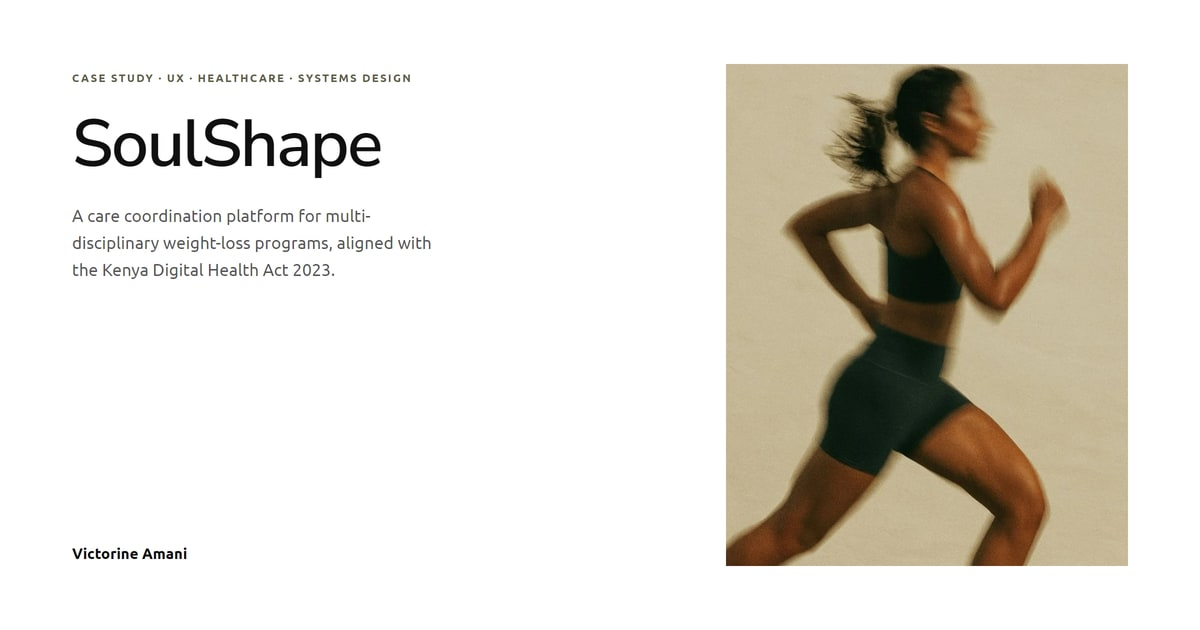
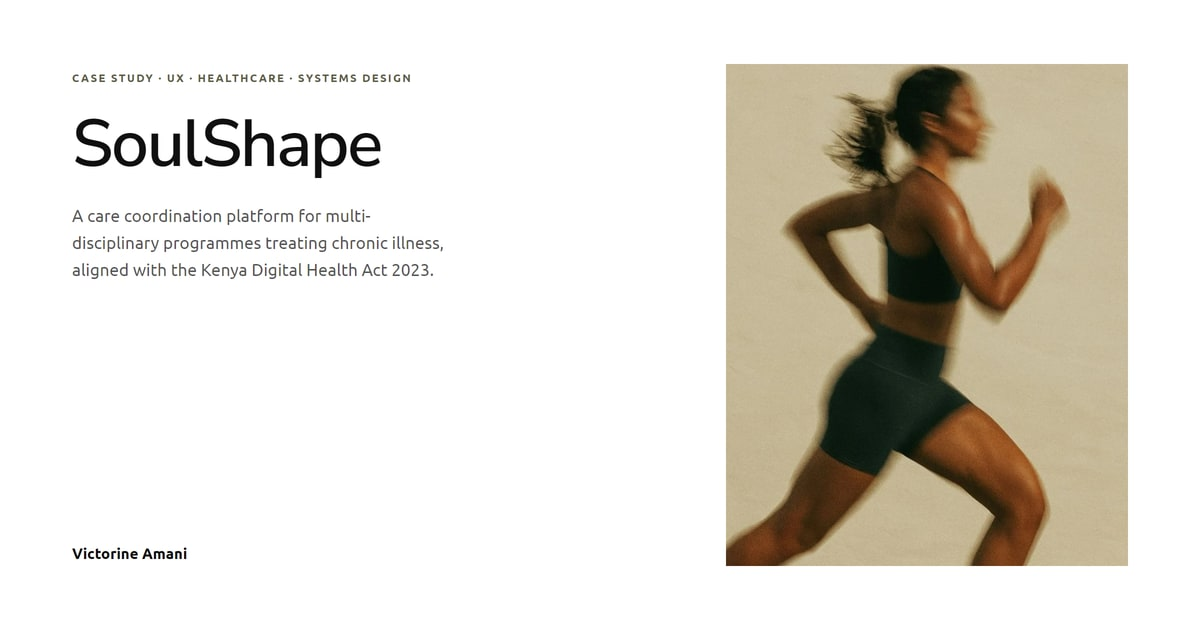
Programmes, in the deck and everywhere it is repeated
The deck, the meta description and the og:description are one sentence
printed three times, so the spelling moves in all three or the page
contradicts itself in the tab and in the share preview.

The share card was further behind than that: it still read "multi-
disciplinary weight-loss programs", the line from before chronic illness
replaced weight loss. Redrawn. The other six cards came out byte for byte
identical, so only SoulShape's is touched.

Changed region(s): [[0.0617, 0.3619, 0.37, 0.4524]]

diff --git a/src/routes/work.soulshape.tsx b/src/routes/work.soulshape.tsx
@@ -44,9 +44,9 @@ export const Route = createFileRoute("/work/soulshape")({
   head: ({ match }) => ({
     meta: [
       { title: "SoulShape · A HealthTech Case Study by Victorine Amani" },
-      { name: "description", content: "A care coordination platform for multi-disciplinary programs treating chronic illness, aligned with the Kenya Digital Health Act 2023." },
+      { name: "description", content: "A care coordination platform for multi-disciplinary programmes treating chronic illness, aligned with the Kenya Digital Health Act 2023." },
       { property: "og:title", content: "SoulShape · A HealthTech Case Study by Victorine Amani" },
-      { property: "og:description", content: "A care coordination platform for multi-disciplinary programs treating chronic illness." },
+      { property: "og:description", content: "A care coordination platform for multi-disciplinary programmes treating chronic illness." },
       ...shareImage(match.context.origin, "soulshape", "The SoulShape case study: a runner mid-stride beside the title."),
     ],
   }),
@@ -506,7 +506,7 @@ function SoulShape() {
     <CaseStudyHero
       title="SoulShape"
       meta={meta}
-      deck="A care coordination platform for multi-disciplinary programs treating chronic illness."
+      deck="A care coordination platform for multi-disciplinary programmes treating chronic illness."
       image={{
         src: heroImage,
         alt: "The SoulShape account-creation screen on a monitor at a clinic's front desk",
